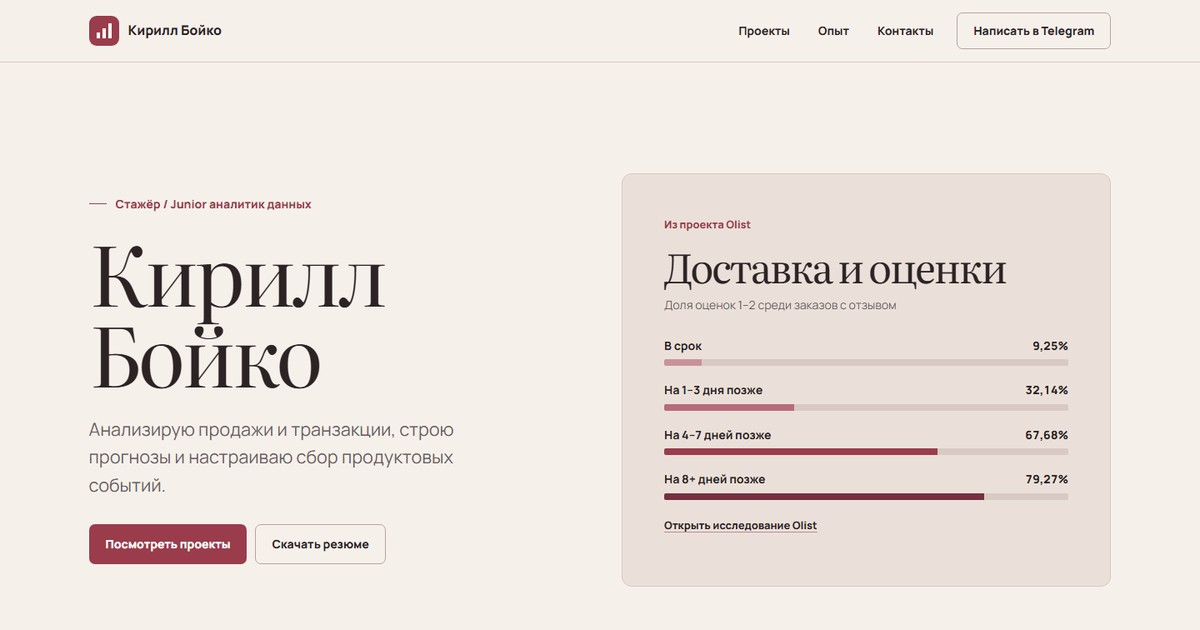
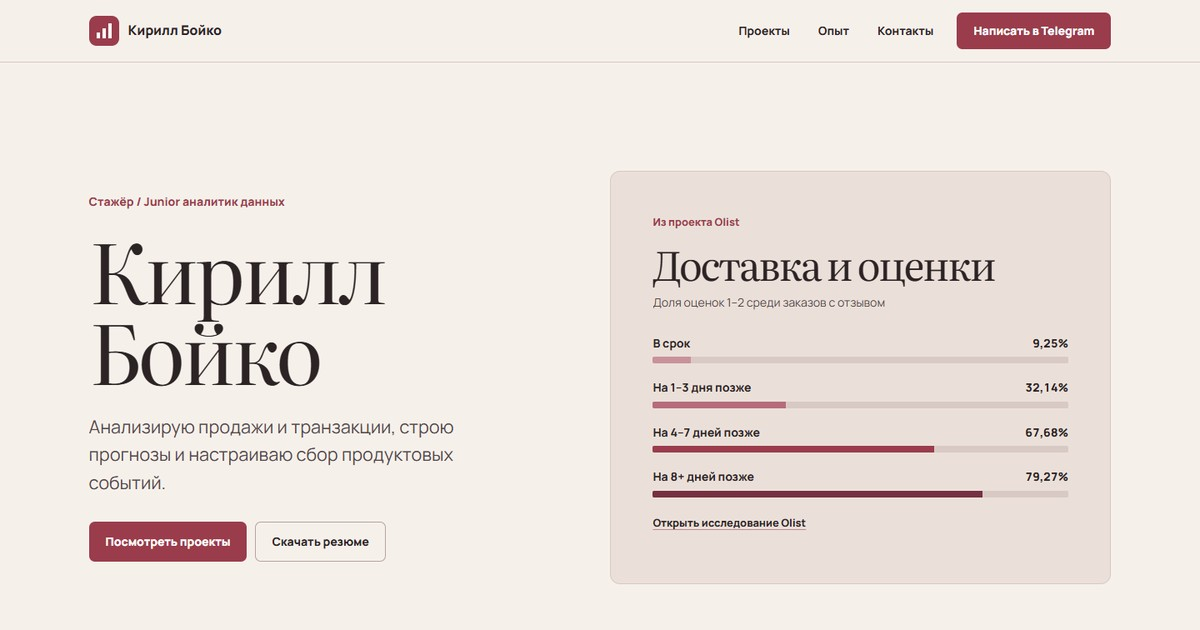
Refine mobile layout and text contrast

diff --git a/style.css b/style.css
@@ -30,7 +30,7 @@
   --p-bg: #f6f0eb;
   --p-surface: #ebe0d9;
   --p-ink: #2c2325;
-  --p-muted: #6a5d5e;
+  --p-muted: #524749;
   --p-accent: #9a3c4c;
   --p-accent-ink: #fff;
   --p-action: #9a3c4c;
@@ -63,14 +63,14 @@ h1 { font-size: clamp(3.7rem, 6.85vw, 6.15rem); line-height: .99; }
 h2 { font-size: clamp(2.55rem, 4.65vw, 4.65rem); }
 h3 { font-weight: 800; letter-spacing: -.048em; font-size: clamp(1.32rem, 2vw, 1.8rem); }
 a { color: inherit; }
-main:focus { outline: none; }
 *:focus-visible { outline: 2px solid var(--p-accent); outline-offset: 5px; }
+main:focus-visible { outline-offset: -2px; }
 .wrap { width: min(calc(100% - var(--side) * 2), 1240px); margin-inline: auto; }
 .skip-link { position: fixed; z-index: 3; top: 10px; left: 16px; padding: 10px 16px; background: var(--paper); transform: translateY(-150%); }
 .skip-link:focus { transform: translateY(0); }
 
-.site-header { position: sticky; z-index: 2; top: 0; min-height: var(--nav-height); background: var(--p-bg); border-bottom: 1px solid var(--line); }
-.nav { min-height: var(--nav-height); display: flex; align-items: center; gap: 28px; }
+.site-header { position: fixed; z-index: 2; top: 0; inset-inline: 0; min-height: var(--nav-height); background: var(--p-bg); border-bottom: 1px solid var(--line); }
+.nav-layout { min-height: var(--nav-height); display: flex; align-items: center; gap: 28px; }
 .brand { display: inline-flex; align-items: center; gap: 11px; min-height: 44px; font-weight: 800; text-decoration: none; white-space: nowrap; }
 .brand img { flex-shrink: 0; }
 .nav__links { display: flex; align-items: center; gap: clamp(14px, 2.4vw, 34px); margin-left: auto; }
@@ -85,22 +85,21 @@ main:focus { outline: none; }
 .text-link { display: inline-flex; align-items: center; width: fit-content; min-height: 44px; font-size: .875rem; font-weight: 800; text-decoration: underline; text-underline-offset: .27em; text-decoration-color: #be8691; }
 .text-link:hover { color: var(--p-accent); text-decoration-color: currentColor; }
 
-.hero { min-height: calc(100svh - var(--nav-height) - 1px); display: grid; }
-.hero-layout { display: grid; grid-template-columns: minmax(0, 1fr) minmax(0, 1.05fr); column-gap: clamp(28px, 5.5vw, 82px); grid-template-rows: 1fr auto; align-items: center; padding-top: clamp(36px, 7svh, 78px); }
+.hero { min-height: 100svh; display: grid; }
+.hero-layout { display: grid; grid-template-columns: repeat(2, minmax(0, 1fr)); column-gap: 24px; grid-template-rows: 1fr auto; align-items: center; padding-top: calc(var(--nav-height) + clamp(36px, 7svh, 78px)); }
 .hero__copy { padding-block: 24px; }
 .eyebrow { font-size: .8rem; line-height: 1.45; font-weight: 800; color: var(--p-accent); }
-.hero__kicker { display: flex; align-items: center; gap: 11px; margin-bottom: 22px; font-size: clamp(.75rem, 1.15vw, .875rem); }
-.hero__kicker::before { content: ""; width: 21px; height: 1px; background: currentColor; }
+.hero__kicker { margin-bottom: 22px; font-size: clamp(.75rem, 1.15vw, .875rem); }
 .hero__lead { margin-top: 26px; max-width: 34ch; color: var(--p-muted); font-size: clamp(1rem, 1.65vw, 1.35rem); line-height: 1.55; }
 .hero__actions, .contact-actions { display: flex; flex-wrap: wrap; gap: 10px; margin-top: 31px; }
-.hero-meta { grid-column: 1 / -1; display: flex; justify-content: space-between; align-items: center; gap: 12px; padding-block: 20px; border-top: 1px solid var(--line); margin-top: clamp(32px, 7svh, 76px); color: var(--p-muted); font-size: .875rem; font-weight: 750; }
+.hero-meta { grid-column: 1 / -1; display: flex; justify-content: space-between; align-items: center; gap: 12px; padding-block: 20px 25px; border-top: 1px solid var(--line); margin-top: clamp(32px, 7svh, 76px); color: var(--p-muted); font-size: .875rem; font-weight: 750; }
 .hero-meta span:last-child { display: flex; align-items: center; gap: 11px; }
 .hero-meta i { width: 4px; height: 4px; background: var(--p-accent); border-radius: 50%; }
 
 .hero__visual { min-width: 0; }
 .chart { padding: clamp(24px, 3.5vw, 52px); background: var(--p-surface); border: 1px solid var(--line); border-radius: var(--radius); }
 .chart-overline { margin-bottom: 12px; color: var(--p-accent); font-size: .8rem; font-weight: 800; }
-.chart h2 { font-size: clamp(1.85rem, 3.35vw, 3.2rem); }
+.chart #chart-title { font: 400 clamp(1.85rem, 3.35vw, 3.2rem)/1.14 var(--font-display); letter-spacing: -.052em; }
 .chart #chart-caption { color: var(--p-muted); font-size: .875rem; margin-top: 8px; }
 .bars { display: grid; gap: 18px; margin: 27px 0 9px; }
 .bar-row { display: grid; grid-template-columns: minmax(0, 1fr) auto; gap: 5px 10px; align-items: end; font-size: .875rem; font-weight: 750; }
@@ -129,7 +128,7 @@ main:focus { outline: none; }
 .project-body .text-link { margin-top: -6px; }
 
 .experience { border-top: 1px solid var(--line); }
-.experience-grid { margin-top: clamp(30px, 6vh, 62px); display: grid; grid-template-columns: minmax(0, 1.55fr) minmax(0, 1fr); align-items: start; gap: clamp(26px, 6vw, 96px); }
+.experience-grid { margin-top: clamp(30px, 6vh, 62px); display: grid; grid-template-columns: repeat(2, minmax(0, 1fr)); align-items: start; gap: 24px; }
 .experience-main > p, .experience-aside p:not(.eyebrow) { margin-top: 12px; color: var(--p-muted); }
 .work-list { margin-top: 26px; }
 .work-list > div { border-top: 1px solid var(--line); display: grid; grid-template-columns: 9.5rem minmax(0, 1fr); gap: 12px; padding-block: 13px; }
@@ -145,18 +144,16 @@ main:focus { outline: none; }
 .contact h2 { max-width: 18ch; font-size: clamp(2.75rem, 6.4vw, 6.2rem); font-weight: 400; }
 .contact h2 strong { color: var(--p-inv-accent); font-weight: inherit; }
 .contact .mo-wh { --ink: var(--p-inv-ink); --bg: var(--p-inv-bg); --accent: var(--p-inv-accent); }
-.contact .btn--primary { color: var(--p-inv-action-ink); background: var(--p-inv-action); }
-.contact .btn--primary:hover { background: #edc8c8; }
-.contact .btn--secondary { color: var(--p-inv-ink); border-color: #a28989; }
+.contact .btn--secondary { color: var(--p-inv-ink); }
 .contact .btn--secondary:hover { background: var(--p-inv-surface); }
 .contact a:hover { color: var(--p-inv-accent); }
-.contact .btn--primary:hover { color: var(--p-inv-bg); }
+.contact .btn--primary:hover { color: var(--p-action-ink); }
 .contact *:focus-visible { outline-color: var(--p-inv-accent); }
 .footer-bar { display: flex; align-items: center; justify-content: space-between; padding-block: 17px; border-top: 1px solid #655254; }
 
 @media (max-width: 900px) {
   :root { --side: clamp(20px, 5vw, 56px); }
-  .nav { gap: 16px; }
+  .nav-layout { gap: 16px; }
   .hero-layout { column-gap: 26px; }
   .project-grid { gap: 12px; }
   .project-body { padding: 16px; }
@@ -169,7 +166,7 @@ main:focus { outline: none; }
   .nav-contact { margin-left: auto; font-size: .75rem; padding-inline: 10px; }
   .brand { gap: 8px; font-size: .875rem; }
   .brand img { width: 32px; height: 32px; }
-  .hero-layout { grid-template-columns: 1fr; grid-template-rows: auto auto 1fr; align-items: start; padding-top: 30px; }
+  .hero-layout { grid-template-columns: 1fr; grid-template-rows: auto auto 1fr; align-items: start; padding-top: calc(var(--nav-height) + 31px); }
   .hero__copy { padding-block: 0; }
   .hero__kicker { margin-bottom: 13px; }
   h1 { font-size: clamp(2.7rem, 10.6vw, 4.6rem); }
@@ -195,7 +192,7 @@ main:focus { outline: none; }
 
 @media (max-width: 355px) {
   :root { --side: 16px; }
-  .nav { gap: 8px; }
+  .nav-layout { gap: 8px; }
   .nav-contact { padding-inline: 8px; }
   .chart { padding-inline: 15px; }
 }

diff --git a/index.html b/index.html
@@ -26,9 +26,9 @@
 </head>
 <body id="top">
   <!-- Service portfolio: split hero, plaster rose, split nav, tonal buttons, dark footer, word-highlight. -->
-  <a class="skip-link" href="#main">К содержанию</a>
-  <header class="site-header">
-    <nav class="wrap nav nav--split" aria-label="Навигация">
+  <header class="site-header nav">
+    <a class="skip-link" href="#main">К содержанию</a>
+    <nav class="wrap nav-layout nav--split" aria-label="Навигация">
       <a class="brand" href="#top" aria-label="Кирилл Бойко, в начало">
         <img src="assets/mark.svg" width="36" height="36" alt="">
         <span>Кирилл Бойко</span>
@@ -38,7 +38,7 @@
         <a href="#experience">Опыт</a>
         <a href="#contact">Контакты</a>
       </div>
-      <a class="btn btn--secondary nav-contact" href="https://t.me/chirillkin">Написать в Telegram</a>
+      <a class="btn btn--primary nav-contact" href="https://t.me/chirillkin">Написать в Telegram</a>
     </nav>
   </header>
 
@@ -54,10 +54,10 @@
             <a class="btn btn--secondary" href="resume.pdf" download="Kirill-Boiko-resume.pdf">Скачать резюме</a>
           </div>
         </div>
-        <div class="hero__visual" data-visual>
+        <div class="hero__visual hero-visual" data-visual>
           <figure class="chart" aria-labelledby="chart-title chart-caption">
             <p class="chart-overline">Из проекта Olist</p>
-            <h2 id="chart-title">Доставка и оценки</h2>
+            <p id="chart-title">Доставка и оценки</p>
             <p id="chart-caption">Доля оценок 1–2 среди заказов с отзывом</p>
             <dl class="bars">
               <div class="bar-row" style="--value:9.25%; --bar:#c9929b">
@@ -167,7 +167,7 @@
     </section>
   </main>
 
-  <footer id="contact" class="section contact" aria-labelledby="contact-title">
+  <footer id="contact" class="section closing contact" aria-labelledby="contact-title">
     <div class="wrap contact-layout">
       <div data-moment="word-highlight">
         <h2 id="contact-title" class="mo-wh__text">Ищу стажировку или junior-позицию <strong>в аналитике данных</strong></h2>
